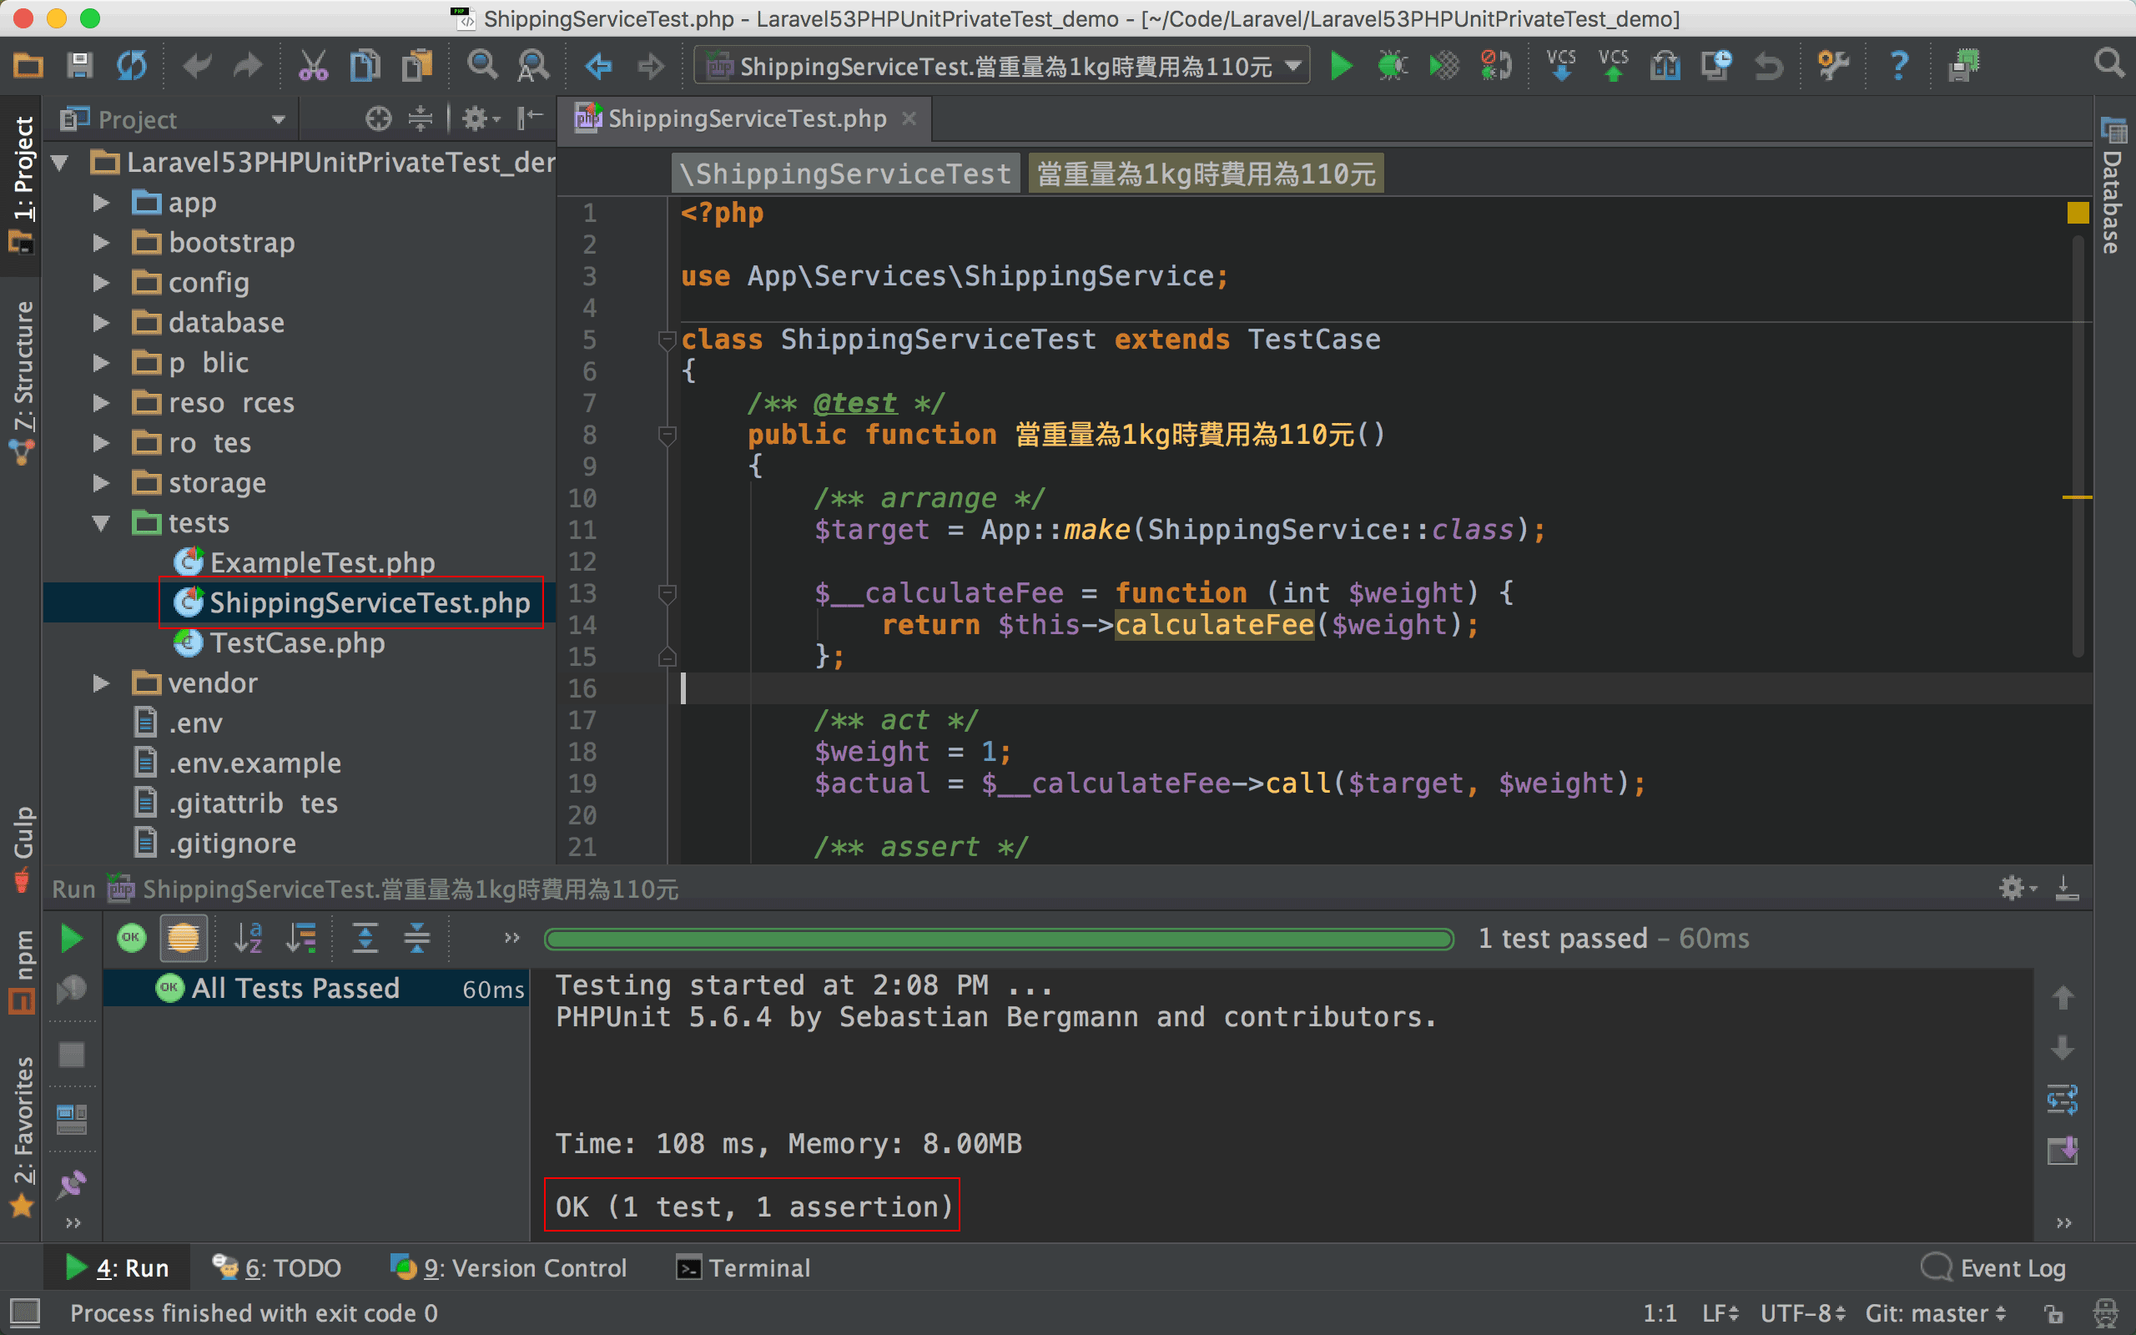
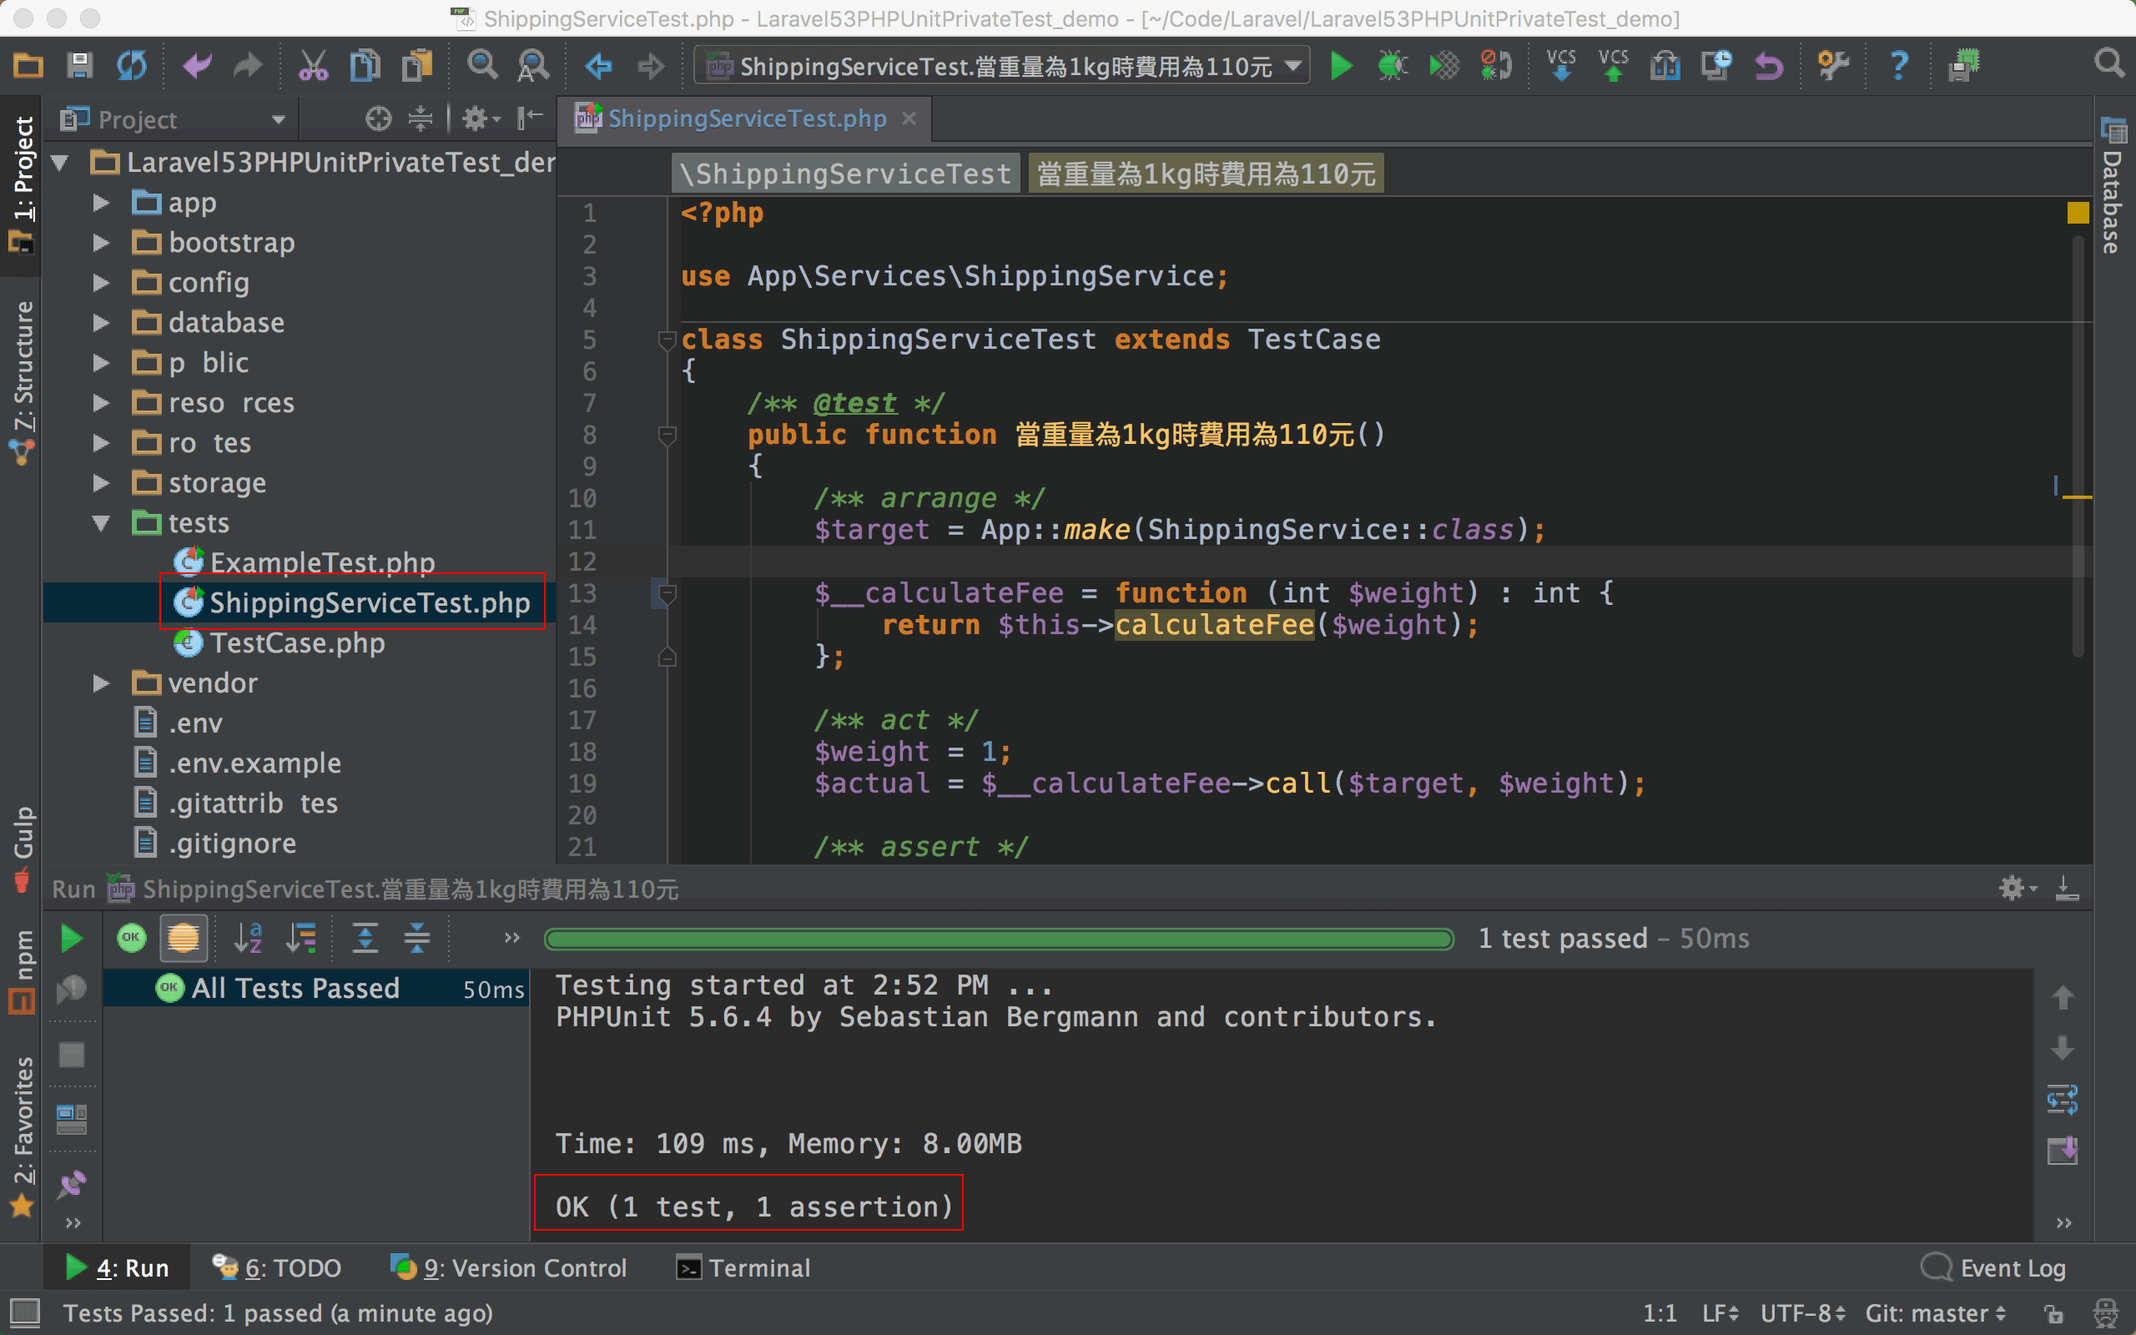
Site updated: 2016-11-20 14:56:00

diff --git a/phpunit/phpunit-test-private/index.html b/phpunit/phpunit-test-private/index.html
@@ -17,7 +17,7 @@
 <meta property="og:site_name" content="點燈坊">
 <meta property="og:description" content="使用 Closure::call() 測試 private 與 protected method">
 <meta property="og:image" content="http://oomusou.io/images/feature/logo.png">
-<meta property="og:updated_time" content="2016-11-20T06:37:45.000Z">
+<meta property="og:updated_time" content="2016-11-20T06:53:58.000Z">
 <meta name="twitter:card" content="summary">
 <meta name="twitter:title" content="如何使用 PHPUnit 測試 private 與 protected method?">
 <meta name="twitter:description" content="使用 Closure::call() 測試 private 與 protected method">
@@ -126,10 +126,10 @@
 <p>若真的萬不得已，需要對 <code>private</code> 與 <code>protected</code> 做測試時，以下介紹一個簡單的方式。</p>
 <p><strong> ShippingService.php </strong><span class="margin-note-marker"><sup>1</sup></span> <span class="block margin-div-outer"><span class="block margin-div-inner"><span class="block margin-note"><span class="margin-note-marker">1</span>GitHub Commit : <a href="https://github.com/oomusou/Laravel53PHPUnitPrivateTest_demo/commit/17f65cac2469d1d6af871cebde10a3b9d01bb80f" target="_blank" rel="external">新增 ShippingService</a></span></span></span><br><figure class="highlight php"><figcaption><span>Services/ShippingService.php</span></figcaption><table><tr><td class="gutter"><pre><span class="line">1</span><br><span class="line">2</span><br><span class="line">3</span><br><span class="line">4</span><br><span class="line">5</span><br><span class="line">6</span><br><span class="line">7</span><br><span class="line">8</span><br><span class="line">9</span><br><span class="line">10</span><br><span class="line">11</span><br><span class="line">12</span><br><span class="line">13</span><br><span class="line">14</span><br><span class="line">15</span><br><span class="line">16</span><br></pre></td><td class="code"><pre><span class="line"><span class="keyword">declare</span>(strict_types = <span class="number">1</span>);</span><br><span class="line"></span><br><span class="line"><span class="keyword">namespace</span> <span class="title">App</span>\<span class="title">Services</span>;</span><br><span class="line"></span><br><span class="line"><span class="class"><span class="keyword">class</span> <span class="title">ShippingService</span></span><br><span class="line"></span>&#123;</span><br><span class="line">    <span class="comment">/**</span><br><span class="line">     * 計算運費</span><br><span class="line">     * <span class="doctag">@param</span> int $weight</span><br><span class="line">     * <span class="doctag">@return</span> int</span><br><span class="line">     */</span></span><br><span class="line">    <span class="keyword">private</span> <span class="function"><span class="keyword">function</span> <span class="title">calculateFee</span><span class="params">(int <span class="variable">$weight</span>)</span> : <span class="title">int</span></span><br><span class="line">    </span>&#123;</span><br><span class="line">        <span class="keyword">return</span> <span class="number">100</span> * <span class="variable">$weight</span> + <span class="number">10</span>;</span><br><span class="line">    &#125;</span><br><span class="line">&#125;</span><br></pre></td></tr></table></figure></p>
 <p>若 <code>calculateFee()</code> 為 <code>private</code>，我們該怎麼為這段程式補上測試呢?</p>
-<p><strong> 單元測試 ShippingServiceTest.php </strong><span class="margin-note-marker"><sup>2</sup></span> <span class="block margin-div-outer"><span class="block margin-div-inner"><span class="block margin-note"><span class="margin-note-marker">2</span>GitHub Commit : <a href="https://github.com/oomusou/Laravel53PHPUnitPrivateTest_demo/commit/89bdc1540df918a362a4acf3dedbc523fd174add" target="_blank" rel="external">單元測試 : ShippingService 使用 Closure::call()</a></span></span></span><br><figure class="highlight php"><figcaption><span>tests/Services/ShippingServiceTest.php</span></figcaption><table><tr><td class="gutter"><pre><span class="line">1</span><br><span class="line">2</span><br><span class="line">3</span><br><span class="line">4</span><br><span class="line">5</span><br><span class="line">6</span><br><span class="line">7</span><br><span class="line">8</span><br><span class="line">9</span><br><span class="line">10</span><br><span class="line">11</span><br><span class="line">12</span><br><span class="line">13</span><br><span class="line">14</span><br><span class="line">15</span><br><span class="line">16</span><br><span class="line">17</span><br><span class="line">18</span><br><span class="line">19</span><br><span class="line">20</span><br><span class="line">21</span><br><span class="line">22</span><br><span class="line">23</span><br><span class="line">24</span><br><span class="line">25</span><br><span class="line">26</span><br><span class="line">27</span><br></pre></td><td class="code"><pre><span class="line"><span class="keyword">declare</span>(strict_types = <span class="number">1</span>);</span><br><span class="line"></span><br><span class="line"><span class="keyword">use</span> <span class="title">App</span>\<span class="title">Services</span>\<span class="title">BlackCat</span>;</span><br><span class="line"><span class="keyword">use</span> <span class="title">App</span>\<span class="title">Services</span>\<span class="title">LogisticsInterface</span>;</span><br><span class="line"><span class="keyword">use</span> <span class="title">App</span>\<span class="title">Services</span>\<span class="title">ShippingService</span>;</span><br><span class="line"></span><br><span class="line"><span class="class"><span class="keyword">class</span> <span class="title">ShippingServiceTest</span> <span class="keyword">extends</span> <span class="title">TestCase</span></span><br><span class="line"></span>&#123;</span><br><span class="line">    <span class="comment">/** <span class="doctag">@test</span> */</span></span><br><span class="line">    <span class="keyword">public</span> <span class="function"><span class="keyword">function</span> 當重量為1<span class="title">kg</span>時費用為110元<span class="params">()</span></span><br><span class="line">    </span>&#123;</span><br><span class="line">        <span class="comment">/** arrange */</span></span><br><span class="line">        <span class="variable">$target</span> = App::make(ShippingService::class);</span><br><span class="line"></span><br><span class="line">        <span class="variable">$__calculateFee</span> = <span class="function"><span class="keyword">function</span> <span class="params">(int <span class="variable">$weight</span>)</span> </span>&#123;</span><br><span class="line">            <span class="keyword">return</span> <span class="variable">$this</span>-&gt;calculateFee(<span class="variable">$weight</span>);</span><br><span class="line">        &#125;;</span><br><span class="line"></span><br><span class="line">        <span class="comment">/** act */</span></span><br><span class="line">        <span class="variable">$weight</span> = <span class="number">1</span>;</span><br><span class="line">        <span class="variable">$actual</span> = <span class="variable">$__calculateFee</span>-&gt;call(<span class="variable">$target</span>, <span class="variable">$weight</span>);</span><br><span class="line"></span><br><span class="line">        <span class="comment">/** assert */</span></span><br><span class="line">        <span class="variable">$expected</span> = <span class="number">110</span>;</span><br><span class="line">        <span class="variable">$this</span>-&gt;assertEquals(<span class="variable">$expected</span>, <span class="variable">$actual</span>);</span><br><span class="line">    &#125;</span><br><span class="line">&#125;</span><br></pre></td></tr></table></figure></p>
+<p><strong> 單元測試 ShippingServiceTest.php </strong><span class="margin-note-marker"><sup>2</sup></span> <span class="block margin-div-outer"><span class="block margin-div-inner"><span class="block margin-note"><span class="margin-note-marker">2</span>GitHub Commit : <a href="https://github.com/oomusou/Laravel53PHPUnitPrivateTest_demo/commit/89bdc1540df918a362a4acf3dedbc523fd174add" target="_blank" rel="external">單元測試 : ShippingService 使用 Closure::call()</a></span></span></span><br><figure class="highlight php"><figcaption><span>tests/Services/ShippingServiceTest.php</span></figcaption><table><tr><td class="gutter"><pre><span class="line">1</span><br><span class="line">2</span><br><span class="line">3</span><br><span class="line">4</span><br><span class="line">5</span><br><span class="line">6</span><br><span class="line">7</span><br><span class="line">8</span><br><span class="line">9</span><br><span class="line">10</span><br><span class="line">11</span><br><span class="line">12</span><br><span class="line">13</span><br><span class="line">14</span><br><span class="line">15</span><br><span class="line">16</span><br><span class="line">17</span><br><span class="line">18</span><br><span class="line">19</span><br><span class="line">20</span><br><span class="line">21</span><br><span class="line">22</span><br><span class="line">23</span><br><span class="line">24</span><br><span class="line">25</span><br><span class="line">26</span><br><span class="line">27</span><br></pre></td><td class="code"><pre><span class="line"><span class="keyword">declare</span>(strict_types = <span class="number">1</span>);</span><br><span class="line"></span><br><span class="line"><span class="keyword">use</span> <span class="title">App</span>\<span class="title">Services</span>\<span class="title">BlackCat</span>;</span><br><span class="line"><span class="keyword">use</span> <span class="title">App</span>\<span class="title">Services</span>\<span class="title">LogisticsInterface</span>;</span><br><span class="line"><span class="keyword">use</span> <span class="title">App</span>\<span class="title">Services</span>\<span class="title">ShippingService</span>;</span><br><span class="line"></span><br><span class="line"><span class="class"><span class="keyword">class</span> <span class="title">ShippingServiceTest</span> <span class="keyword">extends</span> <span class="title">TestCase</span></span><br><span class="line"></span>&#123;</span><br><span class="line">    <span class="comment">/** <span class="doctag">@test</span> */</span></span><br><span class="line">    <span class="keyword">public</span> <span class="function"><span class="keyword">function</span> 當重量為1<span class="title">kg</span>時費用為110元<span class="params">()</span></span><br><span class="line">    </span>&#123;</span><br><span class="line">        <span class="comment">/** arrange */</span></span><br><span class="line">        <span class="variable">$target</span> = App::make(ShippingService::class);</span><br><span class="line"></span><br><span class="line">        <span class="variable">$__calculateFee</span> = <span class="function"><span class="keyword">function</span> <span class="params">(int <span class="variable">$weight</span>)</span> : <span class="title">int</span> </span>&#123;</span><br><span class="line">            <span class="keyword">return</span> <span class="variable">$this</span>-&gt;calculateFee(<span class="variable">$weight</span>);</span><br><span class="line">        &#125;;</span><br><span class="line"></span><br><span class="line">        <span class="comment">/** act */</span></span><br><span class="line">        <span class="variable">$weight</span> = <span class="number">1</span>;</span><br><span class="line">        <span class="variable">$actual</span> = <span class="variable">$__calculateFee</span>-&gt;call(<span class="variable">$target</span>, <span class="variable">$weight</span>);</span><br><span class="line"></span><br><span class="line">        <span class="comment">/** assert */</span></span><br><span class="line">        <span class="variable">$expected</span> = <span class="number">110</span>;</span><br><span class="line">        <span class="variable">$this</span>-&gt;assertEquals(<span class="variable">$expected</span>, <span class="variable">$actual</span>);</span><br><span class="line">    &#125;</span><br><span class="line">&#125;</span><br></pre></td></tr></table></figure></p>
 <p>13 行<br><figure class="highlight php"><table><tr><td class="gutter"><pre><span class="line">1</span><br></pre></td><td class="code"><pre><span class="line"><span class="variable">$target</span> = App::make(ShippingService::class);</span><br></pre></td></tr></table></figure></p>
 <p>建立 <code>$target</code> 測試物件，在本範例寫 <code>$target = new ShippingService()</code> 亦可，不過若在 class 內有使用到依賴注入，則必須使用 <code>App::make()</code>， 此時 Laravel 的 service container 會自動幫你啟動依賴注入，注入相對應的物件，實務上在寫測試時，建議使用 <code>App::make()</code> 取代 <code>new</code>。</p>
-<p>15 行<br><figure class="highlight php"><table><tr><td class="gutter"><pre><span class="line">1</span><br><span class="line">2</span><br><span class="line">3</span><br></pre></td><td class="code"><pre><span class="line"><span class="variable">$__calculateFee</span> = <span class="function"><span class="keyword">function</span> <span class="params">(int <span class="variable">$weight</span>)</span> </span>&#123;</span><br><span class="line">    <span class="keyword">return</span> <span class="variable">$this</span>-&gt;calculateFee(<span class="variable">$weight</span>);</span><br><span class="line">&#125;;</span><br></pre></td></tr></table></figure></p>
+<p>15 行<br><figure class="highlight php"><table><tr><td class="gutter"><pre><span class="line">1</span><br><span class="line">2</span><br><span class="line">3</span><br></pre></td><td class="code"><pre><span class="line"><span class="variable">$__calculateFee</span> = <span class="function"><span class="keyword">function</span> <span class="params">(int <span class="variable">$weight</span>)</span> : <span class="title">int</span> </span>&#123;</span><br><span class="line">    <span class="keyword">return</span> <span class="variable">$this</span>-&gt;calculateFee(<span class="variable">$weight</span>);</span><br><span class="line">&#125;;</span><br></pre></td></tr></table></figure></p>
 <p>因為 <code>calculateFee()</code> 為 <code>private</code>，我們無法測試，因此特別建立一個 <code>$__calculateFee</code> closure，由 closure 內部去呼叫 <code>private</code> 的 <code>calculateFee()</code>。</p>
 <p>20 行<br><figure class="highlight php"><table><tr><td class="gutter"><pre><span class="line">1</span><br><span class="line">2</span><br></pre></td><td class="code"><pre><span class="line"><span class="variable">$weight</span> = <span class="number">1</span>;</span><br><span class="line"><span class="variable">$actual</span> = <span class="variable">$__calculateFee</span>-&gt;call(<span class="variable">$target</span>, <span class="variable">$weight</span>);</span><br></pre></td></tr></table></figure></p>
 <p>在 PHP 7，<code>Closure</code> 物件新提供了 <code>call()</code>，可以讓我們直接將自己建立的 closure 動態綁定到一個物件上。<span class="margin-note-marker"><sup>3</sup></span> <span class="block margin-div-outer"><span class="block margin-div-inner"><span class="block margin-note"><span class="margin-note-marker">3</span>關於 PHP 7 的 <code>Closure::call()</code>，詳細請參考 <a href="http://php.net/manual/en/closure.call.php" target="_blank" rel="external">Closure::call</a></span></span></span></p>

diff --git a/hexo/md-overview/index.html b/hexo/md-overview/index.html
@@ -133,7 +133,7 @@
 <span class="xml"><span class="tag">&lt;<span class="title">http:</span>//<span class="attribute">oomusou.io</span>&gt;</span></span>
 [<span class="link_label">My Blog</span>](<span class="link_url">http://oomusou.io</span>)
 [<span class="link_label">My Email</span>](<span class="link_url">oomusou@gmail.com</span>)
-</code></pre><p><a href="&#x6d;&#x61;&#x69;&#x6c;&#x74;&#111;&#x3a;&#x6f;&#x6f;&#109;&#117;&#x73;&#x6f;&#117;&#x40;&#103;&#109;&#x61;&#x69;&#108;&#x2e;&#99;&#111;&#x6d;">&#x6f;&#x6f;&#109;&#117;&#x73;&#x6f;&#117;&#x40;&#103;&#109;&#x61;&#x69;&#108;&#x2e;&#99;&#111;&#x6d;</a><br><a href="http://oomusou.io">http://oomusou.io</a><br><a href="http://oomusou.io">My Blog</a><br><a href="oomusou@gmail.com">My Email</a></p>
+</code></pre><p><a href="&#109;&#97;&#105;&#108;&#116;&#x6f;&#x3a;&#111;&#111;&#x6d;&#117;&#115;&#x6f;&#x75;&#x40;&#103;&#109;&#x61;&#x69;&#x6c;&#x2e;&#99;&#111;&#x6d;">&#111;&#111;&#x6d;&#117;&#115;&#x6f;&#x75;&#x40;&#103;&#109;&#x61;&#x69;&#x6c;&#x2e;&#99;&#111;&#x6d;</a><br><a href="http://oomusou.io">http://oomusou.io</a><br><a href="http://oomusou.io">My Blog</a><br><a href="oomusou@gmail.com">My Email</a></p>
 <h2 id="圖片">圖片</h2><hr>
 <pre><code>![<span class="link_label">step1</span>](<span class="link_url">/images/md000.png</span>)
 </code></pre><p><img src="/images/hexo/md-overview/md000.png" alt="step1"></p>
